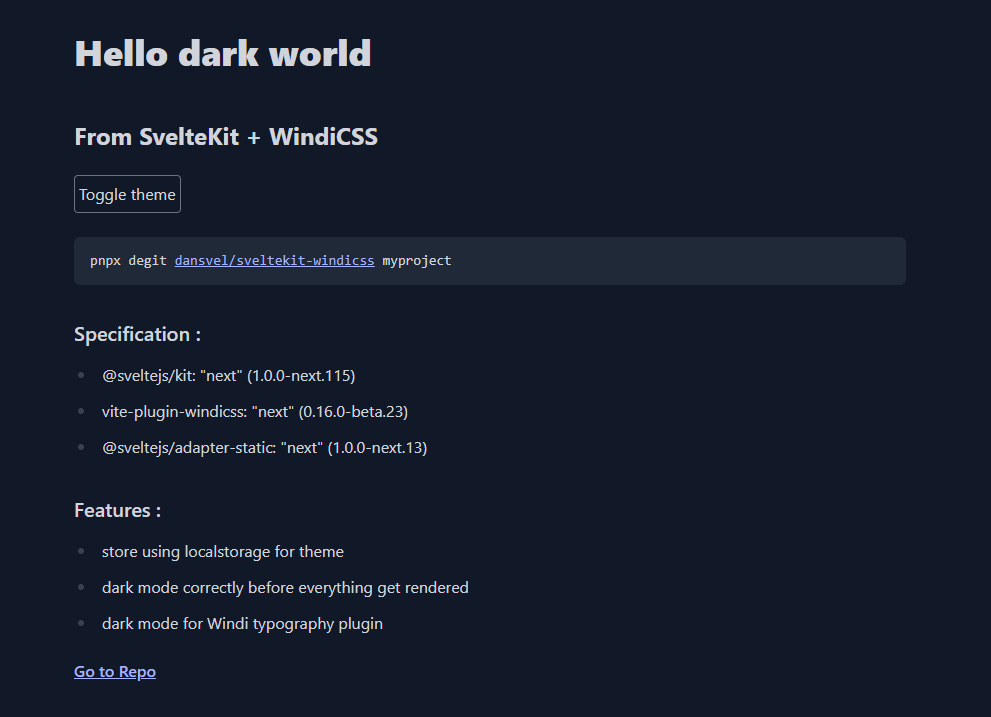
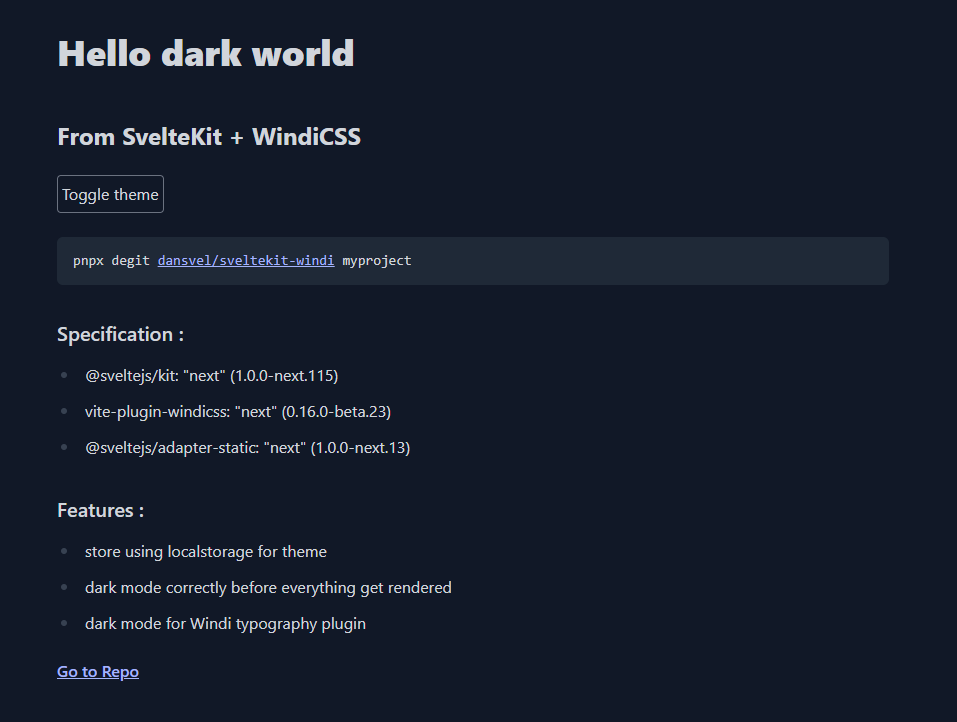
update

diff --git a/src/routes/index.svelte b/src/routes/index.svelte
@@ -42,7 +42,7 @@
 
   <pre>
 <code>
-pnpx degit <a href="https://github.com/dansvel/sveltekit-windi">dansvel/sveltekit-windicss</a> myproject
+pnpx degit <a href="https://github.com/dansvel/sveltekit-windi">dansvel/sveltekit-windi</a> myproject
 </code>
   </pre>
   <h3>Specification : </h3>
